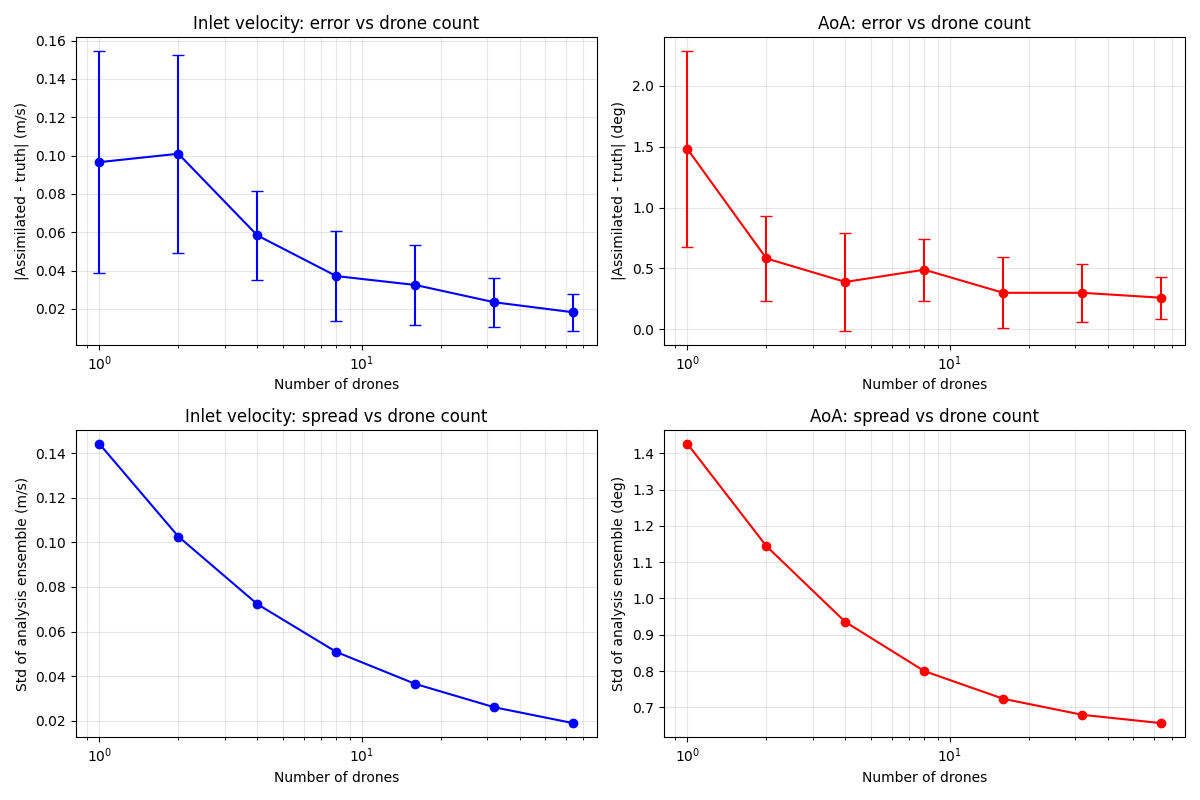
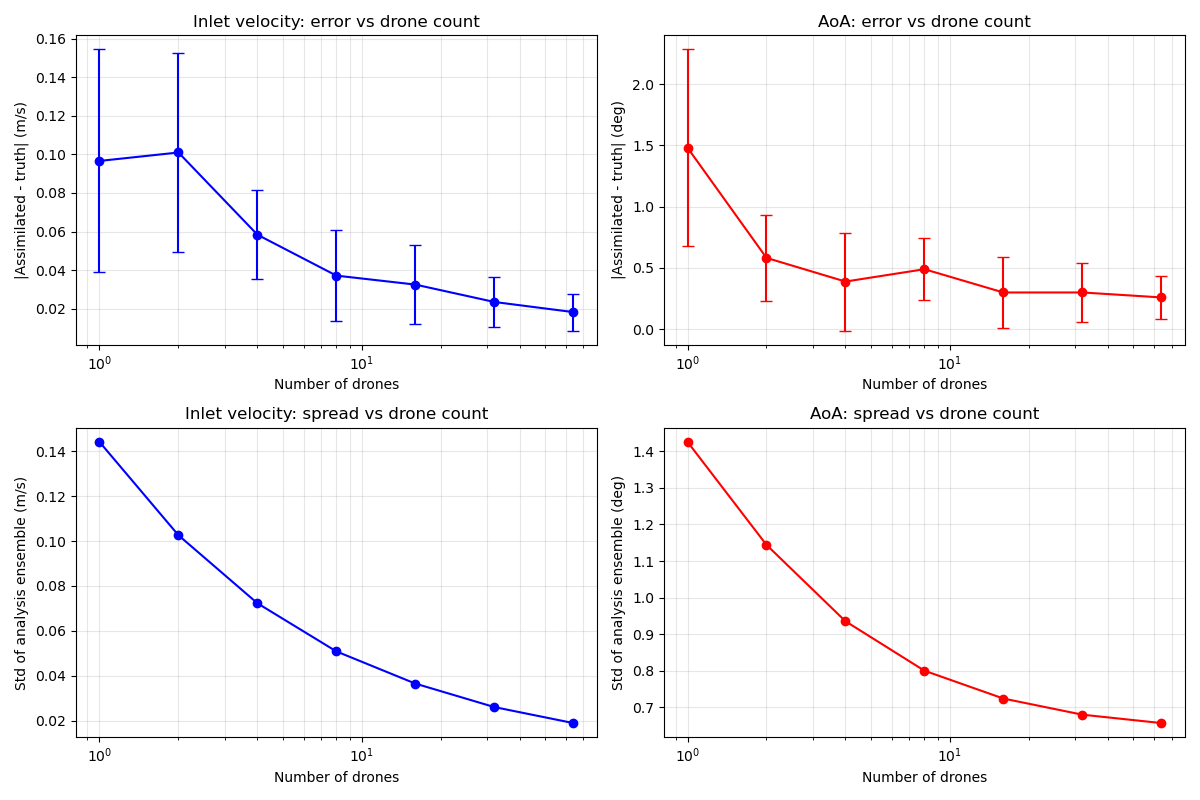
edits, refactors, more graphs

diff --git a/main.py b/main.py
@@ -32,13 +32,12 @@ def main():
     truth_U_inlet, truth_alpha = truth_params[0], truth_params[1]
     
     # load ensemble
-    M, X_ensemble = load_all_cfds(path_lst, U_inlet_lst, alpha_lst)
+    X_positions, X_ensemble = load_all_cfds(path_lst, U_inlet_lst, alpha_lst)
     print(f"X_ensemble shape: {X_ensemble.shape}")
     print(f"Forecast inlet velocities: {U_inlet_lst}")
     print(f"Forecast mean inlet:       {U_inlet_lst.mean():.3f}")
     print(f"Forecast AoA:              {alpha_lst}")
-    print(f"Forecast mean AoA:         {alpha_lst.mean():.3f}")
-    print()
+    print(f"Forecast mean AoA:         {alpha_lst.mean():.3f}\n")
     
     # hand-pick drone locations inside the domain (0-30 in x, 0-10 in y)
     drone_xy = np.array([
@@ -56,7 +55,6 @@ def main():
     y_measured, obs_indices, drone_xy_snapped = make_drone_observations(
         truth_path, drone_xy, noise_std=NOISE_STD, seed=42
     )
-    print(f"Number of measurements: {len(y_measured)}")
     
     # slice predicted observations from the ensemble
     y_pred = X_ensemble[obs_indices, :]
@@ -66,56 +64,75 @@ def main():
     
     # run ETKF
     X_analysis = etkf(X_ensemble, y_measured, y_pred, R)
-    
     # extract assimilated parameters
     analysis_inlet = X_analysis[-2, :]
     analysis_alpha = X_analysis[-1, :]
+
+    #calculate the mean of all CFDs before
+    Xtrue_mean = np.mean(X_ensemble, axis=1)
+    Xtrue_mean_even = Xtrue_mean[::2]
+    Xtrue_mean_odd = Xtrue_mean[1::2]
+    # X_mean_reshaped = np.vstack([X_mean_even, X_mean_odd])
+    Xtrue_mean_mags = np.sqrt(np.pow(Xtrue_mean_even,2) + np.pow(Xtrue_mean_odd, 2))
+
+    #calculate the mean of all CFDs after
+    X_mean = np.mean(X_analysis, axis=1)
+    X_mean_even = X_mean[::2]
+    X_mean_odd = X_mean[1::2]
+    # X_mean_reshaped = np.vstack([X_mean_even, X_mean_odd])
+    X_mean_mags = np.sqrt(np.pow(X_mean_even,2) + np.pow(X_mean_odd, 2))
+    print(X_mean_mags.shape)
+
     
-    print()
     print("=== Results ===")
-    print(f"Truth inlet velocity:      {truth_U_inlet:.3f}")
-    print(f"Forecast mean inlet:       {U_inlet_lst.mean():.3f}")
-    print(f"Analysis mean inlet:       {analysis_inlet.mean():.3f}")
-    print(f"Analysis std inlet:        {analysis_inlet.std():.3f}")
-    print()
-    print(f"Truth AoA:                 {truth_alpha:.3f}")
-    print(f"Forecast mean AoA:         {alpha_lst.mean():.3f}")
-    print(f"Analysis mean AoA:         {analysis_alpha.mean():.3f}")
-    print(f"Analysis std AoA:          {analysis_alpha.std():.3f}")
-    print()
+    print(f"Number of measurements: {len(y_measured)}")
+    print(f"Number of elements per CFD: {X_analysis.shape}")
+    print(f"Truth inlet velocity: {truth_U_inlet:.3f}")
+    print(f"Forecast mean inlet: {U_inlet_lst.mean():.3f}")
+    print(f"Analysis mean inlet: {analysis_inlet.mean():.3f}")
+    print(f"Analysis std inlet: {analysis_inlet.std():.3f}")
+    print(f"Truth AoA: {truth_alpha:.3f}")
+    print(f"Forecast mean AoA: {alpha_lst.mean():.3f}")
+    print(f"Analysis mean AoA: {analysis_alpha.mean():.3f}")
+    print(f"Analysis std AoA: {analysis_alpha.std():.3f}")
     
     # success check
     inlet_improvement = abs(analysis_inlet.mean() - truth_U_inlet) < abs(U_inlet_lst.mean() - truth_U_inlet)
     alpha_improvement = abs(analysis_alpha.mean() - truth_alpha)   < abs(alpha_lst.mean()   - truth_alpha)
     
-    if inlet_improvement and alpha_improvement:
-        print("SUCCESS: ETKF moved both parameters closer to truth")
-    else:
-        print("WARNING: assimilation did not improve both parameters")
-        print("  Inlet improved:", inlet_improvement)
-        print("  AoA improved:  ", alpha_improvement)
+    print(f"Inlet improved: {inlet_improvement}")
+    print(f"AoA improved: {alpha_improvement}")
     
-    # quick visual: histograms before vs after
-    fig, axes = plt.subplots(1, 2, figsize=(10, 4))
+    # # quick visual: histograms before vs after
+    # fig, axes = plt.subplots(1, 2, figsize=(10, 4))
     
-    axes[0].hist(U_inlet_lst, bins=8, alpha=0.5, label='forecast', color='blue')
-    axes[0].hist(analysis_inlet, bins=8, alpha=0.5, label='analysis', color='red')
-    axes[0].axvline(truth_U_inlet, color='black', linestyle='--', label='truth')
-    axes[0].set_xlabel('Inlet velocity')
-    axes[0].set_ylabel('Count')
-    axes[0].legend()
-    axes[0].set_title('Inlet velocity: before vs after')
+    # axes[0].hist(U_inlet_lst, bins=8, alpha=0.5, label='forecast', color='blue')
+    # axes[0].hist(analysis_inlet, bins=8, alpha=0.5, label='analysis', color='red')
+    # axes[0].axvline(truth_U_inlet, color='black', linestyle='--', label='truth')
+    # axes[0].set_xlabel('Inlet velocity')
+    # axes[0].set_ylabel('Count')
+    # axes[0].legend()
+    # axes[0].set_title('Inlet velocity: before vs after')
     
-    axes[1].hist(alpha_lst, bins=8, alpha=0.5, label='forecast', color='blue')
-    axes[1].hist(analysis_alpha, bins=8, alpha=0.5, label='analysis', color='red')
-    axes[1].axvline(truth_alpha, color='black', linestyle='--', label='truth')
-    axes[1].set_xlabel('AoA')
-    axes[1].set_ylabel('Count')
-    axes[1].legend()
-    axes[1].set_title('AoA: before vs after')
+    # axes[1].hist(alpha_lst, bins=8, alpha=0.5, label='forecast', color='blue')
+    # axes[1].hist(analysis_alpha, bins=8, alpha=0.5, label='analysis', color='red')
+    # axes[1].axvline(truth_alpha, color='black', linestyle='--', label='truth')
+    # axes[1].set_xlabel('AoA')
+    # axes[1].set_ylabel('Count')
+    # axes[1].legend()
+    # axes[1].set_title('AoA: before vs after')
     
-    plt.tight_layout()
-    plt.savefig(os.path.join(FOLDER, "assimilation_results.png"), dpi=100)
+    # plt.tight_layout()
+    # plt.savefig(os.path.join(FOLDER, "assimilation_results.png"), dpi=100)
+
+
+    print(X_analysis.shape)
+    # fig, ax = plt.subplots()
+    plt.scatter(drone_xy_snapped[:,0], drone_xy_snapped[:,1], c='red')
+    plt.scatter(X_positions[::2,0], X_positions[::2,1], c=Xtrue_mean_mags - X_mean_mags, cmap='RdBu')
+    plt.colorbar()
+    # fig2, ax2 = plt.subplots()
+    # ax2.scatter(X_positions[::2,0], X_positions[::2,1],  c=Xtrue_mean_mags, cmap='RdBu')
     plt.show()
 
 
